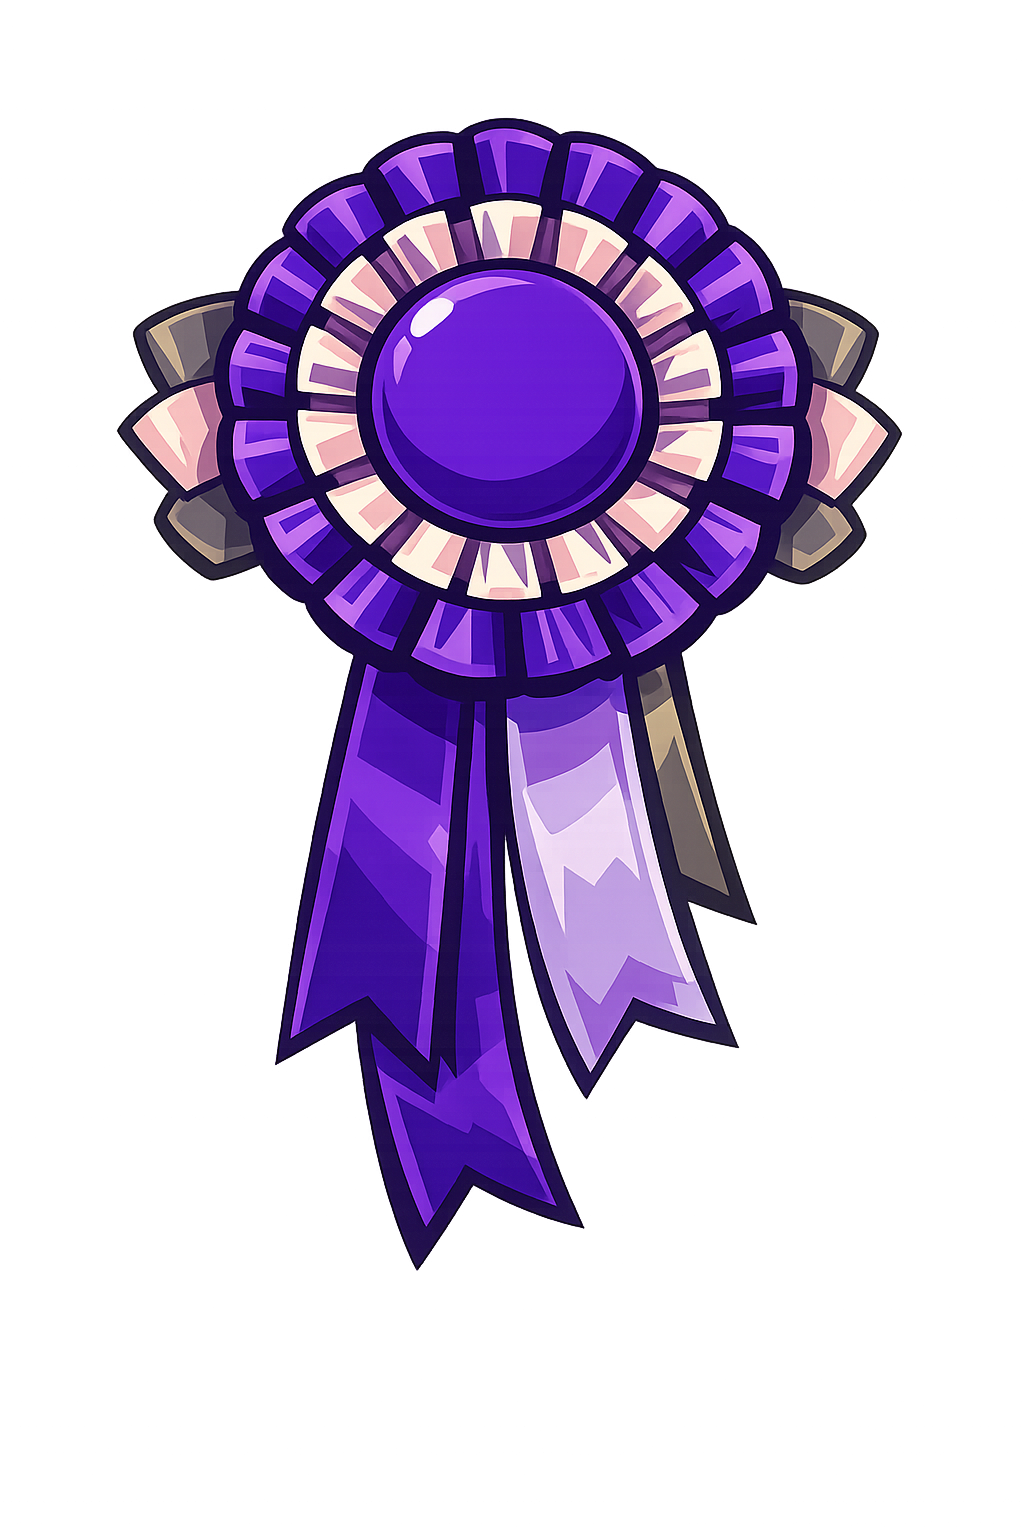
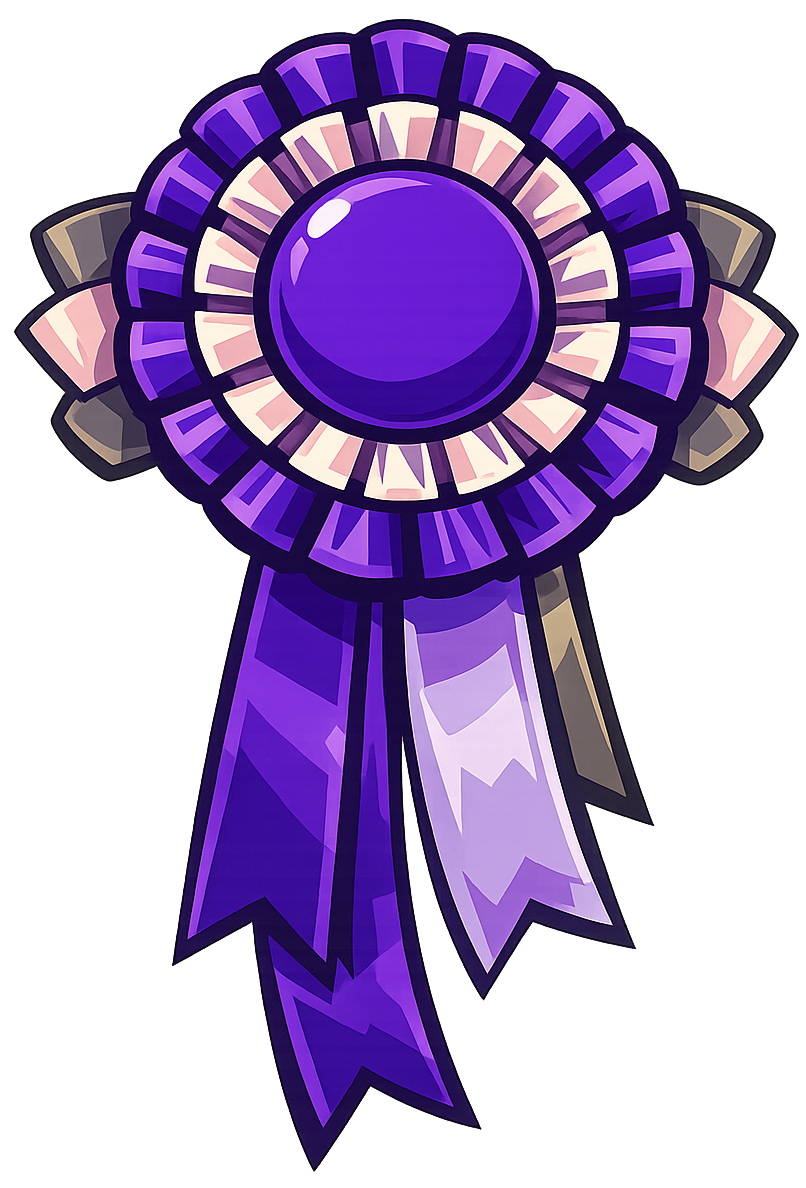
rosette tweak

diff --git a/listing-card-preview.html b/listing-card-preview.html
@@ -259,7 +259,7 @@
       width: 93px;
       height: 93px;
       right: 13px;
-      bottom: -46px;
+      bottom: 0px;
       filter: drop-shadow(0 10px 20px rgba(70, 63, 58, 0.22));
     }
 
@@ -391,7 +391,7 @@
         <div class="card card--editors">
           <div class="card__media">
             <div class="card-marker card-marker--editors" aria-hidden="true">
-              <img src="public/awards/purple_rosette_scl.png?v=1" alt="" class="card-marker__image">
+              <img src="public/awards/rosette-gpt-scl.png?v=1" alt="" class="card-marker__image">
             </div>
             <div class="card__image" style="background-image: linear-gradient(180deg, rgba(0, 0, 0, 0.02), rgba(0, 0, 0, 0.16)), url('https://images.unsplash.com/photo-1559339352-11d035aa65de?auto=format&fit=crop&w=900&q=80');"></div>
           </div>

diff --git a/src/styles/global.css b/src/styles/global.css
@@ -276,15 +276,15 @@ a.tag--link:hover { opacity: 0.85; box-shadow: 0 1px 4px rgba(0,0,0,0.12); }
 .card-marker--editors {
   width: 93px;
   height: 93px;
-  right: 13px;
-  bottom: -46px;
+  right: 3px;
+  bottom: 10px;
   filter: drop-shadow(0 10px 20px rgba(70, 63, 58, 0.22));
 }
 
 .card-marker__image {
   display: block;
-  width: 100%;
-  height: 100%;
+  width: 90%;
+  height: 90%;
   object-fit: contain;
 }
 
